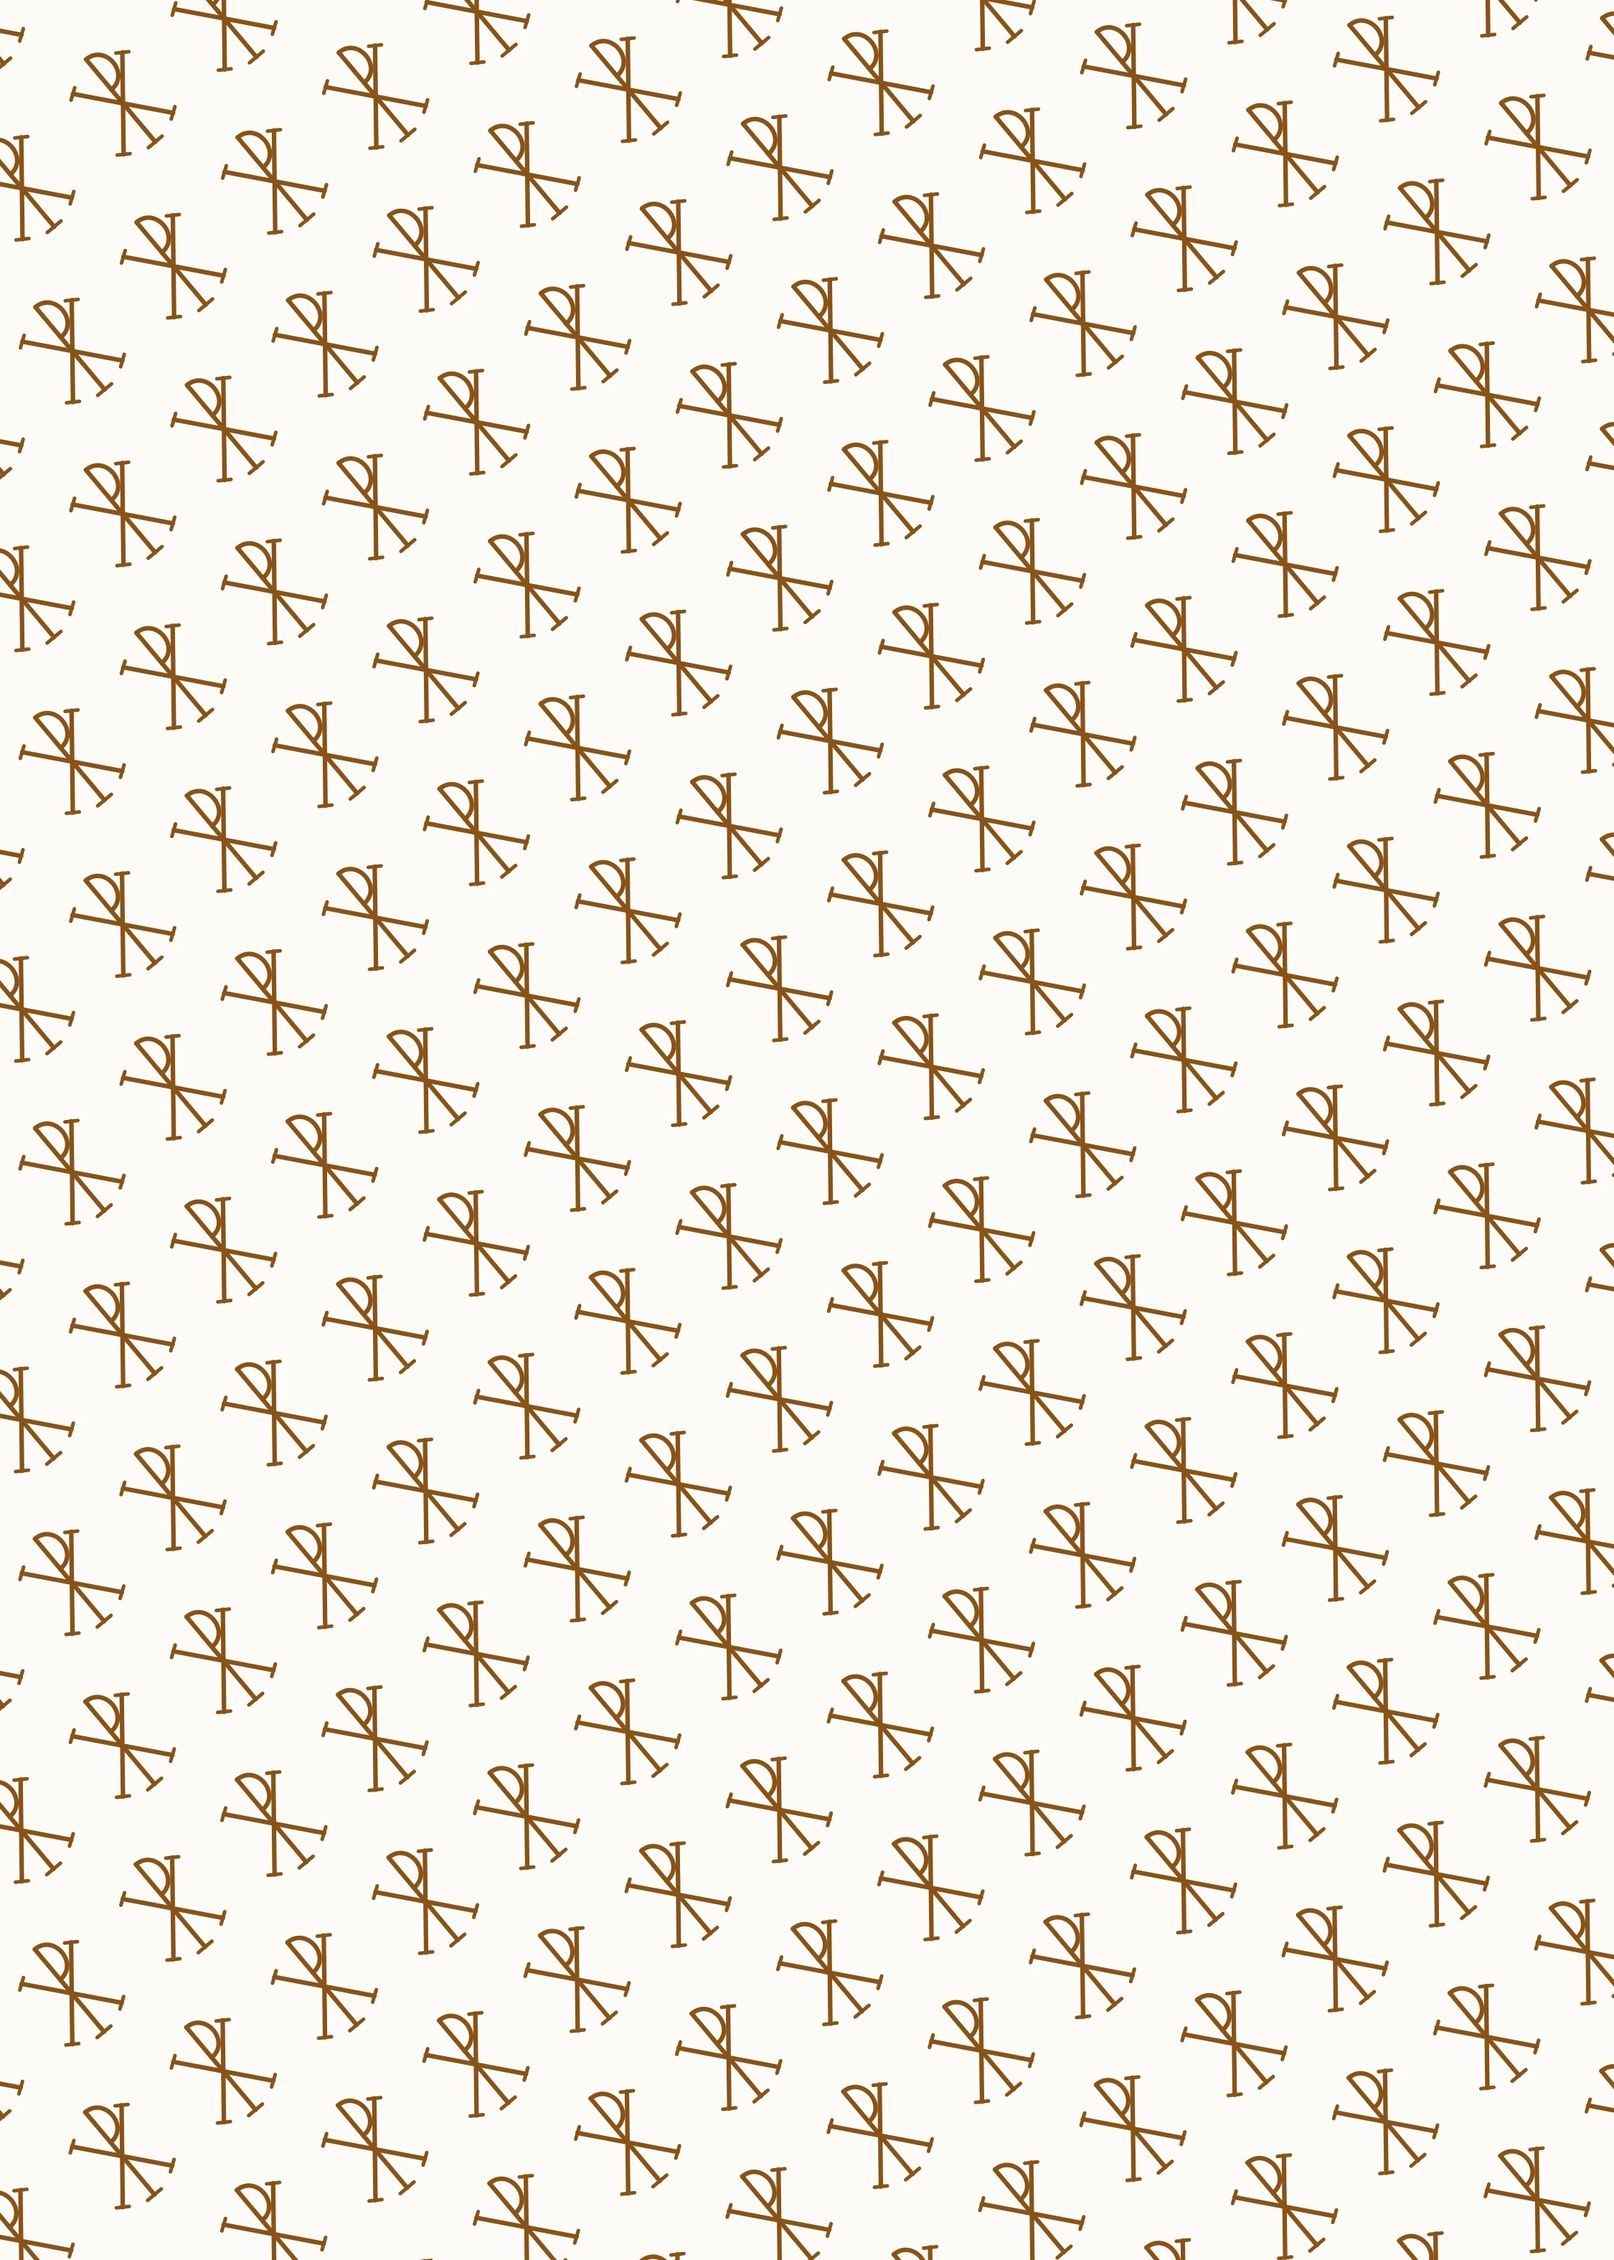
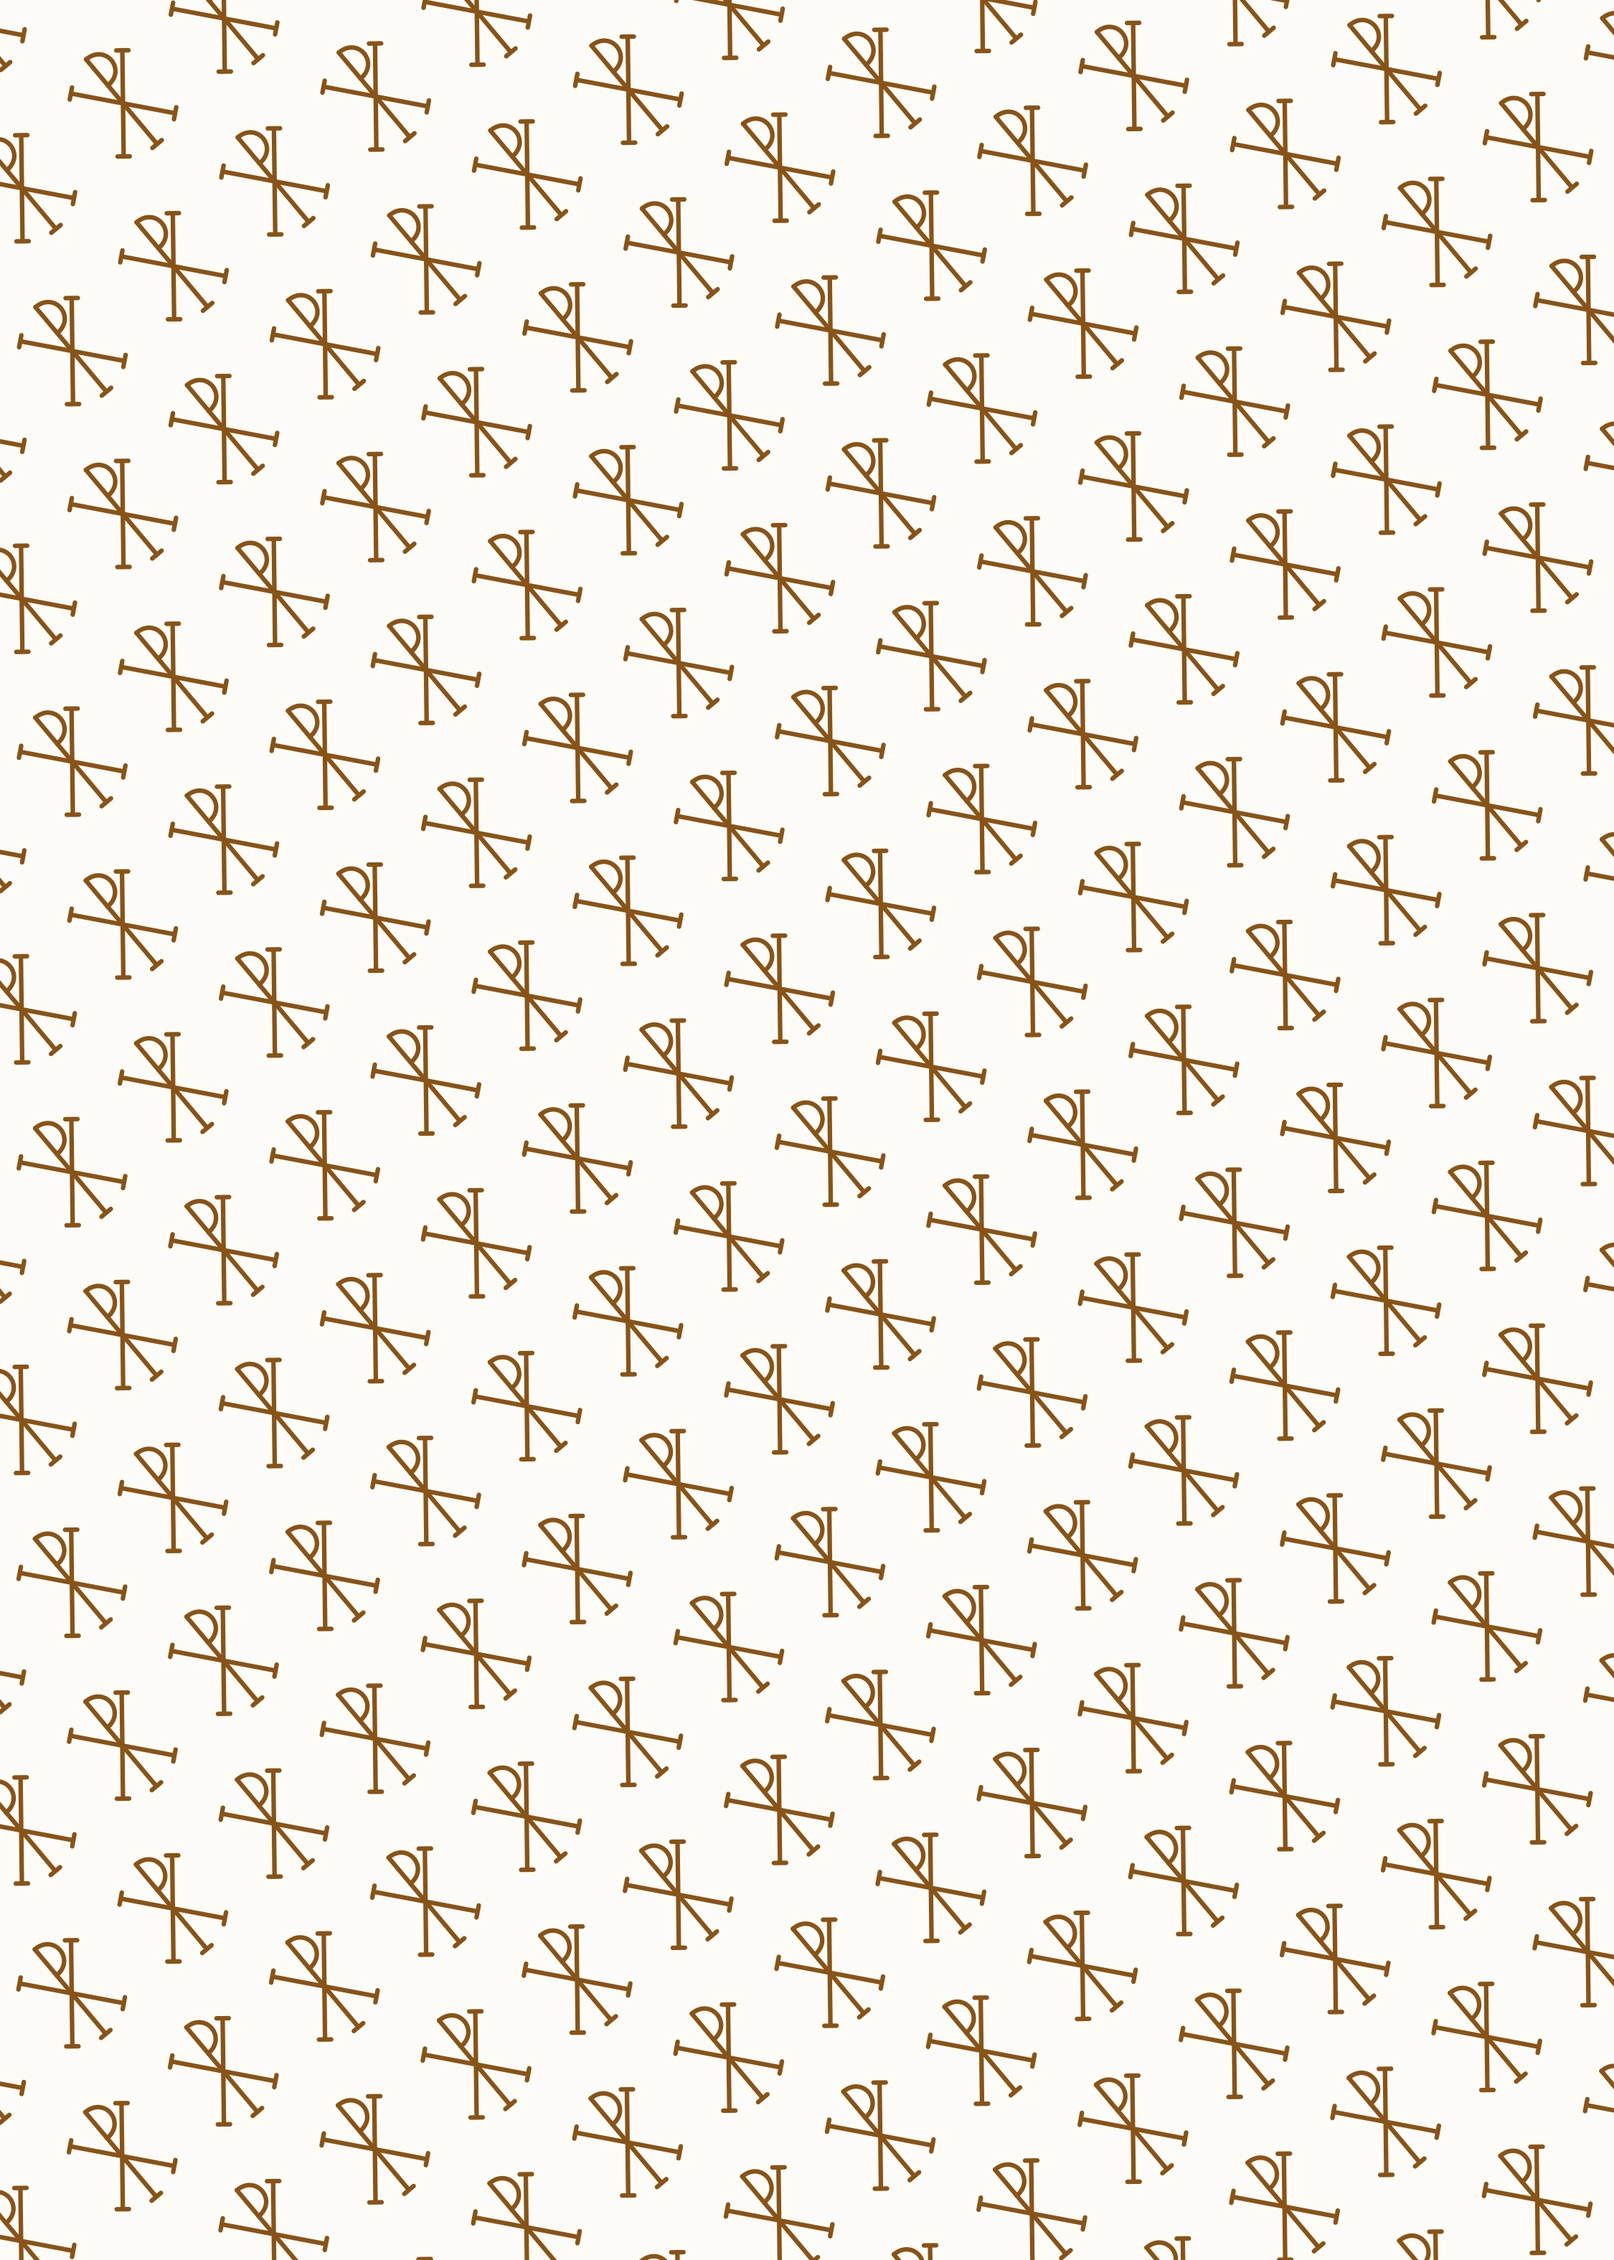
Roll out the fixed Chi-Rho glyph to the public gallery
Matches the source fix: symmetric tick marks (no more one leg vanishing
into the line it crosses), foot tick shortened to match the chi feet,
loop pulled back from the nearest diagonal arm, stem proportions reset.
Applies to the inline header logo and all four featured books' preview
images (regenerated from the fixed 900 DPI sources).

Claude-Session: https://claude.ai/code/session_017CRao4XJ3hrTEUcwKtsaRL

diff --git a/chirho/index.html b/chirho/index.html
@@ -193,13 +193,13 @@
             <g transform="translate(103.5,297.56) scale(0.325)" fill="none">
                 <line x1="-18" y1="-22" x2="18" y2="22" stroke-width="2" stroke-linecap="round" />
                 <line x1="-18" y1="22" x2="18" y2="-22" stroke-width="2" stroke-linecap="round" />
-                <line x1="-21" y1="-20" x2="-15" y2="-24" stroke-width="1.6" stroke-linecap="round" />
-                <line x1="15" y1="24" x2="21" y2="20" stroke-width="1.6" stroke-linecap="round" />
-                <line x1="-21" y1="20" x2="-15" y2="24" stroke-width="1.6" stroke-linecap="round" />
-                <line x1="15" y1="-24" x2="21" y2="-20" stroke-width="1.6" stroke-linecap="round" />
-                <line x1="0" y1="-32" x2="0" y2="28" stroke-width="2" stroke-linecap="round" />
-                <line x1="-5" y1="28" x2="5" y2="28" stroke-width="1.6" stroke-linecap="round" />
-                <path d="M 0,-32 C 14,-32 14,-10 0,-10" stroke-width="2" stroke-linecap="round" stroke-linejoin="round" />
+                <line x1="-16.097" y1="-25.043" x2="-21.360" y2="-20.737" stroke-width="2" stroke-linecap="round" />
+                <line x1="16.097" y1="25.043" x2="21.360" y2="20.737" stroke-width="2" stroke-linecap="round" />
+                <line x1="-21.360" y1="20.737" x2="-16.097" y2="25.043" stroke-width="2" stroke-linecap="round" />
+                <line x1="21.360" y1="-20.737" x2="16.097" y2="-25.043" stroke-width="2" stroke-linecap="round" />
+                <line x1="0" y1="-32" x2="0" y2="28.425" stroke-width="2" stroke-linecap="round" />
+                <line x1="-3.4" y1="29.575" x2="3.4" y2="29.575" stroke-width="2" stroke-linecap="round" />
+                <path d="M 0,-32 C 14,-32 14,-13.05 0,-13.05" stroke-width="2" stroke-linecap="round" stroke-linejoin="round" />
             </g>
             <text x="108.375" y="300" text-anchor="start">RHO</text>
         </svg>
